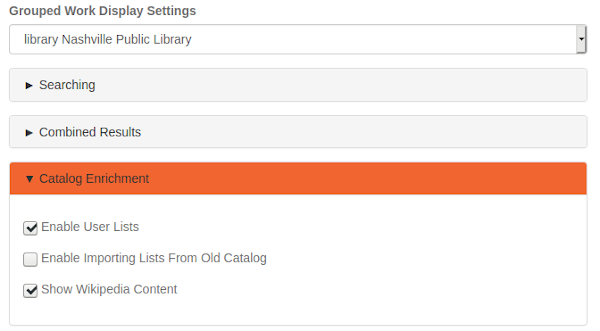
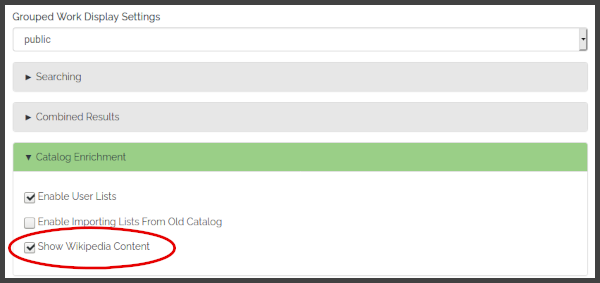
Corrects pic to match test theme, corrects verbiage to make match menu titles

Changed region(s): [[0.0, 0.0, 1.0, 1.0]]

diff --git a/code/web/manual/Wikipedia.MD b/code/web/manual/Wikipedia.MD
@@ -5,7 +5,7 @@
 
   ![Toggle Wikipedia Author Enrichment](/manual/images/Catalog-Enrichment.png)
 
-- You can edit which Wikipedia article is displayed, or disabled a Wikipedia article for a specific author here: [Enrichment > Author Enrichment](/Admin/AuthorEnrichment) 
+- You can edit which Wikipedia article is displayed, or disabled a Wikipedia article for a specific author here: [Third Party Enrichment  > Wikipedia Integration](/Admin/AuthorEnrichment) 
 
   ![Wikipedia author enrichment](/manual/images/Add-author-enrichment.png)
     - *To edit which Wikipedia article displays for a specific author*, click 'Add New' or 'Edit.' Enter name of the author as it appears in Aspen. Enter the URL of the Wikipedia article you wish to display; e.g.:

diff --git a/code/web/manual/Author-Pages.MD b/code/web/manual/Author-Pages.MD
@@ -1,9 +1,6 @@
 ## Author Pages
 - When a user clicks on an Author's name in the record, they are directed to the Author’s Page. Information here is pulled in via an API from Wikipedia. It doesn't require an API key, it pulls the information in automatically.
 - The user will have a direct link to the corresponding Wikipedia page if applicable. Provided by Wikipedia.
-<<<<<<< HEAD
 
 See Also: [Wikipedia](/Admin/HelpManual?page=Wikipedia)
-=======
-- See Also: [Wikipedia](/Admin/HelpManual?page=Wikipedia)
->>>>>>> 8b39e7ff48516f8a01cfae3c8f418fb5298c6bf8
+
